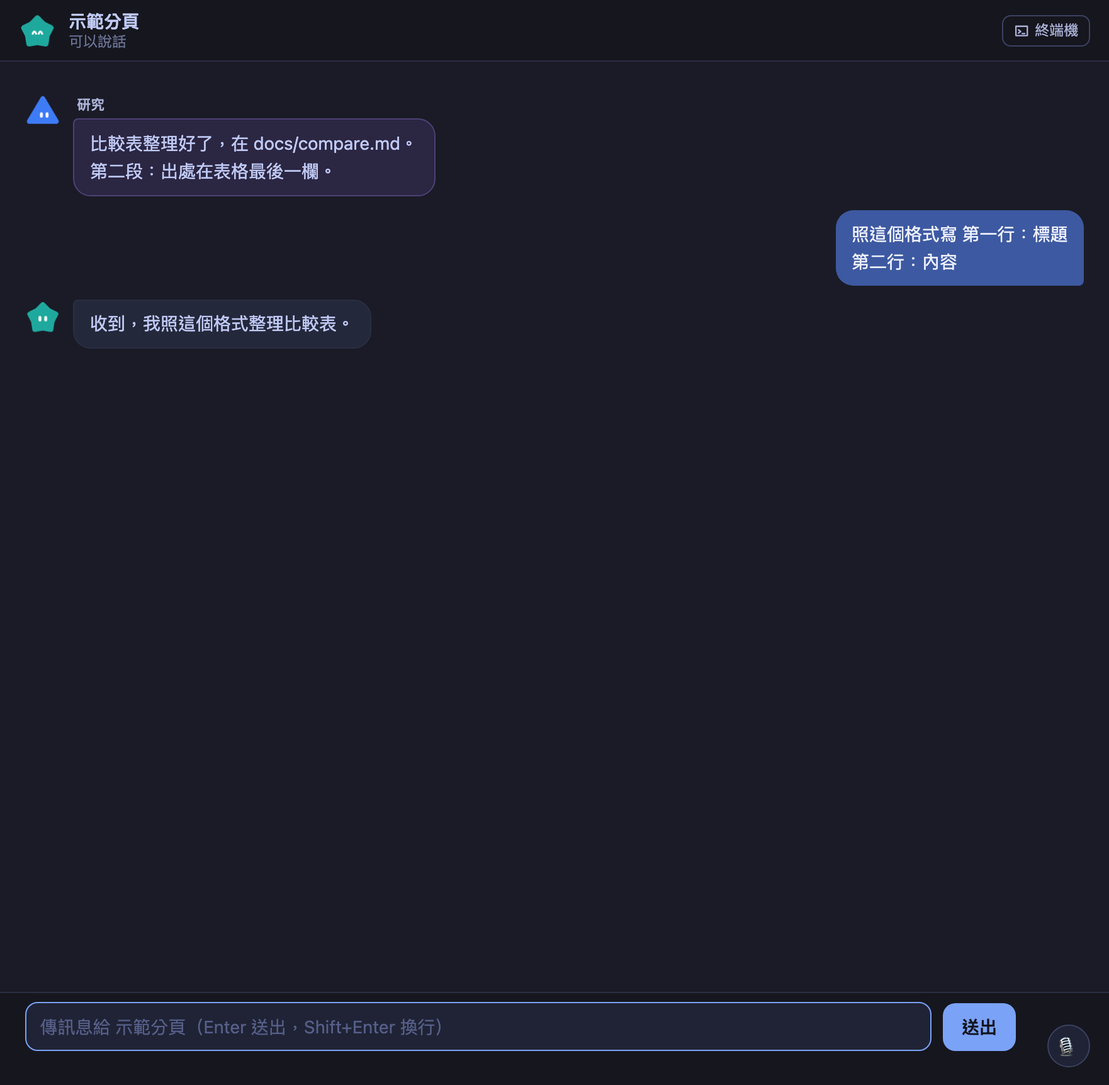
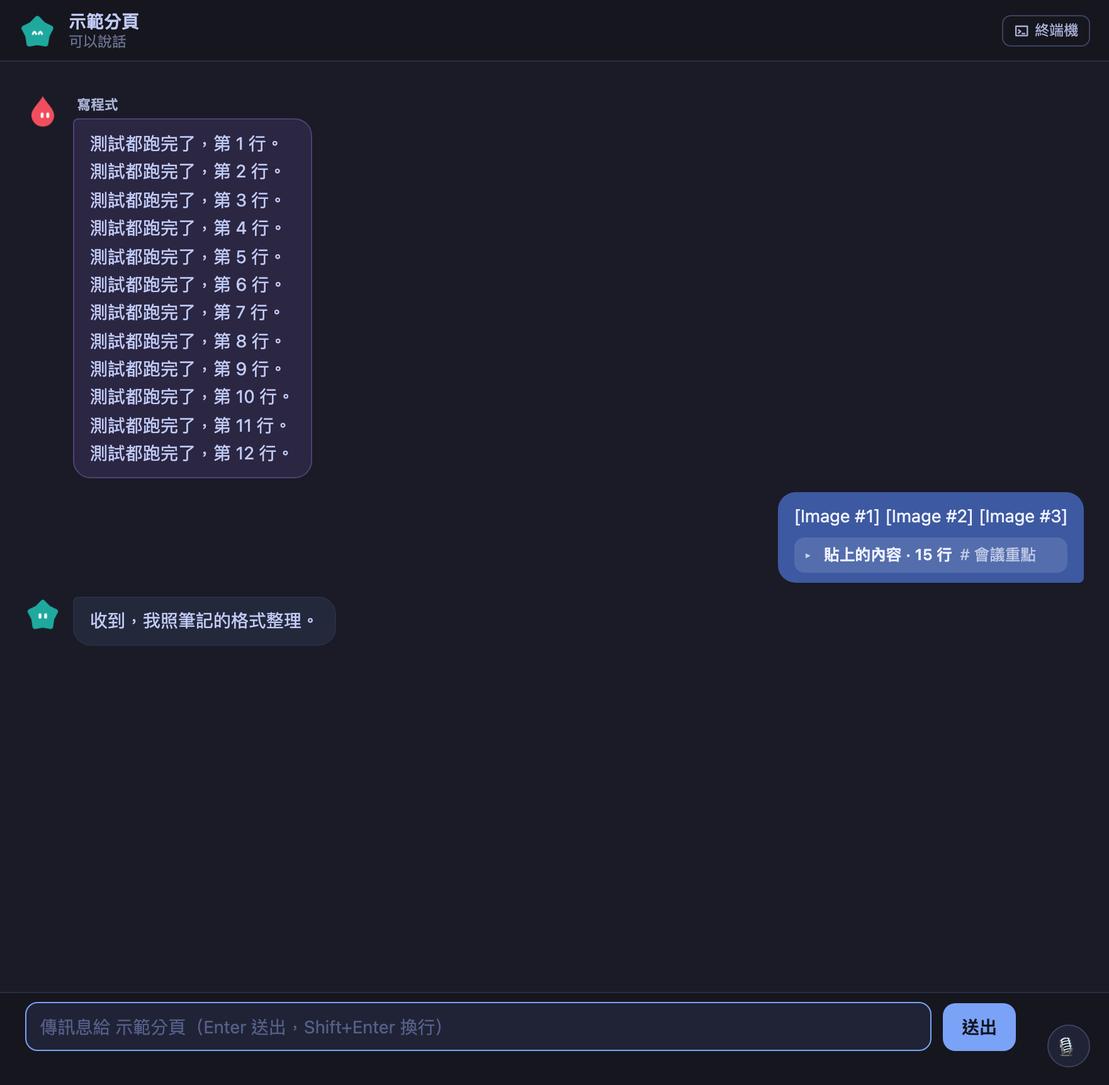
What the person pasted is a folded block in their bubble, never the paste's tags
Claude Code keeps every paste in its record wrapped: <pasted_content id="…">…
</pasted_content id="…">. ShellBot types a long message into a tab as a paste
(another agent's, one from Telegram, the chat view's own send), so a wrapper that is
the whole message is only how it went in. A paste of the person's own sits among
their words: measured on a tab in daily use, three attached pictures, a blank line,
then a paste of about 15 lines. The view showed it with its tags; the previous
commit dropped the tags but left the pasted lines spread through the bubble.

- web/chat.js pasteParts: a wrapper that is the whole message gives its words, as
  the message. Wrappers among the person's words make parts of the bubble, and each
  paste is one folded block: "貼上的內容 · 15 行" and how it starts, the text as it
  was pasted one click away. A header inside something the person pasted is theirs,
  not an agent's. `text` keeps everything without tags (a send waiting in the view
  is matched on it).
- agent_link.unwrap_paste, the same rule for who sent it: only a wrapper that is the
  whole message is read inside. The previous commit dropped every tag, so a message
  that began with a pasted agent's message and went on with the person's own words
  read as the agent's.
- Only the display changes; the CLI keeps the text as it got it.
- docs/chat-shell.md, docs/mobile-link.md: the rule, so a phone draws the same.
[…]

diff --git a/web/chat.js b/web/chat.js
@@ -275,10 +275,31 @@
   // Context Codex writes as a message of its own, not something anyone said.
   const CODEX_CONTEXT = /^\s*(?:<environment_context>|<user_instructions>|<permissions instructions>|# AGENTS\.md instructions)/;
   const RED_MARK = /^[\s>❯›⏺•*-]*\[\[\s*SF\s*:\s*RED\s*(?::[^\]]*)?\]\]\s*$/i;     // bridge_home._RED_LINE
-  // Claude Code keeps a pasted block as <pasted_content id="…">…</pasted_content id="…">, and a
-  // message of several lines goes into a tab as a paste: the tags go, what was pasted stays
-  // (agent_link._PASTE_TAG is the same rule).
+  // Claude Code keeps a pasted block as <pasted_content id="…">…</pasted_content id="…">. ShellBot
+  // types a long message into a tab as a paste (another agent's, one from Telegram, the chat view's
+  // own send), so a wrapper that is the whole message is only how it went in: its words are the
+  // message. A wrapper among the person's own words is something they pasted: a folded block of its
+  // own. The tags are never shown, and the CLI keeps the text as it got it. (agent_link.unwrap_paste
+  // is the same rule for who sent a message.)
   const PASTE_TAG = /<pasted_content(?:\s[^>]*)?>\n?|\n?<\/pasted_content(?:\s[^>]*)?>/g;
+  const PASTE_OPEN = /<pasted_content(?:\s[^>]*)?>/g;
+  const PASTE_BLOCK = /<pasted_content(?:\s[^>]*)?>\n?([\s\S]*?)\n?<\/pasted_content(?:\s[^>]*)?>/g;
+  const PASTE_WHOLE = /^\s*<pasted_content(?:\s[^>]*)?>\n?([\s\S]*?)\n?<\/pasted_content(?:\s[^>]*)?>\s*$/;
+  // → { inner: the words without tags, parts: [{text} | {paste}] when something was pasted among them }
+  function pasteParts(t) {
+    const opens = (t.match(PASTE_OPEN) || []).length;
+    const whole = opens === 1 && t.match(PASTE_WHOLE);
+    if (!opens || whole) return { inner: whole ? whole[1] : t, parts: null };
+    const parts = [];
+    let at = 0;
+    for (const m of t.matchAll(PASTE_BLOCK)) {
+      if (t.slice(at, m.index).trim()) parts.push({ text: t.slice(at, m.index).trim() });
+      parts.push({ paste: m[1] });
+      at = m.index + m[0].length;
+    }
+    if (t.slice(at).trim()) parts.push({ text: t.slice(at).trim() });
+    return { inner: t.replace(PASTE_TAG, ''), parts: parts.some(x => x.paste !== undefined) ? parts : null };
+  }
 
   // The [[A2A…]] header an agent message starts with (agent_link.format_delivery /
   // format_handoff). It can hold a [[SF:TO:…]] of its own, so it ends at the ]] that
@@ -297,9 +318,10 @@
 
   // A user turn: the words, minus what ShellBot itself put around them.
   function userView(text) {
-    let t = String(text || '').replace(PASTE_TAG, '');
+    const pasted = pasteParts(String(text || ''));
+    let t = pasted.inner;
     const tags = [];
-    const a2a = a2aHeader(t);
+    const a2a = pasted.parts ? null : a2aHeader(t);     // a header in something the person pasted is theirs
     if (a2a) {
       const who = a2a.inner.match(/「([^」]+)」|"([^"]+)"/) || [];
       tags.push({ kind: 'a2a', who: who[1] || who[2] || '' });
@@ -313,7 +335,7 @@
       t = t.split(/\n{2,}/).filter(p => !TG_TOKEN.test(p)).join('\n\n');
       tags.push({ kind: 'telegram' });
     }
-    return { text: t.trim(), tags };
+    return pasted.parts ? { text: t.trim(), tags, parts: pasted.parts } : { text: t.trim(), tags };
   }
   // An agent's words, minus ShellBot's protocol markers. `foldRed`: the [[SF:RED]]
   // question at the end is on screen as buttons, so its tail is left out.
@@ -354,7 +376,8 @@
         // (`from`, agent_link.sender_of, what a phone reads); the header is the same rule.
         const peer = (t.from && t.from.kind === 'a2a') ? t.from.name : (u.tags.find(x => x.kind === 'a2a') || {}).who;
         if (peer !== undefined) { out.push({ type: 'peer', who: peer || '', text: u.text, ts: t.ts || 0 }); return; }
-        out.push({ type: 'user', text: u.text, tags: u.tags, ts: t.ts || 0 });
+        out.push(u.parts ? { type: 'user', text: u.text, tags: u.tags, parts: u.parts, ts: t.ts || 0 }
+                         : { type: 'user', text: u.text, tags: u.tags, ts: t.ts || 0 });
       } else if (kind === 'assistant_text') {
         const raw = String(t.text || '').trim();
         if (!raw || CODEX_CONTEXT.test(raw)) return;           // reasoning, or Codex's own context
@@ -932,14 +955,28 @@
         v.open.has(key) ? T('Show less', '收合') : T(`Show all (${text.length} characters)`, `顯示全部（${text.length} 字）`))}</button>` : '') +
       '</div>';
   }
+  // Something the person pasted among their own words: one folded block in their bubble, how many
+  // lines and how it starts; the text itself, as it was pasted, one click away.
+  function pasteHtml(sid, key, text) {
+    const open = view(sid).open.has(key);
+    const n = text.split('\n').length;
+    const peek = (text.split('\n').find(l => l.trim()) || '').trim();
+    return `<div class="cm-paste${open ? ' is-open' : ''}"><button class="cm-paste-sum" data-act="open" data-key="${escHtml(key)}">` +
+      `<span class="cm-caret">${open ? '▾' : '▸'}</span><span>${escHtml(T(`Pasted · ${n} ${n === 1 ? 'line' : 'lines'}`, `貼上的內容 · ${n} 行`))}</span>` +
+      (open ? '' : `<span class="cm-paste-peek">${escHtml(peek)}</span>`) + '</button>' +
+      (open ? `<div class="cm-paste-text">${escHtml(text)}</div>` : '') + '</div>';
+  }
   function itemHtml(sid, it, idx, items) {
     const v = view(sid);
     const key = itemKey(it, idx);
     if (it.type === 'user') {
       const tag = it.tags.map(t => t.kind === 'telegram' ? T('from Telegram', '來自 Telegram')
         : T(`from ${t.who || 'another agent'}`, `來自 ${t.who || '另一個分頁'}`)).join(' · ');
-      return `<div class="cm-row cm-user">${longText(sid, key, it.text, 'cm-bubble', true)}` +
-        (tag ? `<div class="cm-meta">${escHtml(tag)}</div>` : '') + '</div>';
+      const bubble = it.parts
+        ? `<div class="cm-bubble">${it.parts.map((p, n) => p.paste !== undefined ? pasteHtml(sid, `${key}:paste${n}`, p.paste)
+                                                                                : md(p.text, isZh(lang()))).join('')}</div>`
+        : longText(sid, key, it.text, 'cm-bubble', true);
+      return `<div class="cm-row cm-user">${bubble}` + (tag ? `<div class="cm-meta">${escHtml(tag)}</div>` : '') + '</div>';
     }
     if (it.type === 'peer') {
       // Another agent: on the left with its own face and name, its words in a bubble of

diff --git a/tests_chat_shell.js b/tests_chat_shell.js
@@ -216,11 +216,15 @@ console.log('turns');
   const pasted = R.buildTimeline([
     { kind: 'user_msg', text: '<pasted_content id="9f2a">\n' + sent + '\n第二段\n</pasted_content id="9f2a">', ts: 5 },
     { kind: 'user_msg', text: '看這段 <pasted_content id="77b1">\n第一行\n第二行\n</pasted_content id="77b1">', ts: 6 },
+    { kind: 'user_msg', text: '<pasted_content id="a7d3">\n我自己打的長訊息\n第二行\n</pasted_content id="a7d3">', ts: 7 },
   ]);
   check("an agent's message that went in as a paste is the sender's too: no wrapper, no header",
     pasted[0].type === 'peer' && pasted[0].who === '研究' && pasted[0].text === '資料整理好了\n第二段', pasted[0]);
-  check("…a paste of your own shows what you pasted, not its wrapper",
-    pasted[1].type === 'user' && pasted[1].text === '看這段 第一行\n第二行', pasted[1]);
+  check("…a paste among your own words: yours, and what you pasted is a block of its own, without its wrapper",
+    pasted[1].type === 'user' && pasted[1].text === '看這段 第一行\n第二行'
+      && same(pasted[1].parts, [{ text: '看這段' }, { paste: '第一行\n第二行' }]), pasted[1]);
+  check("…your own message wrapped whole (how a long one goes in): just your words, no block",
+    pasted[2].type === 'user' && pasted[2].text === '我自己打的長訊息\n第二行' && !pasted[2].parts, pasted[2]);
   const cur = R.userView('<timestamp>Tuesday, Nov 10, 2026, 9:55 PM (UTC+8)</timestamp><user_query>你好</user_query>');
   check("Cursor Agent's stamp and wrapper are not shown", cur.text === '你好' && !cur.tags.length, cur);
   const pic = R.buildTimeline([{ kind: 'user_msg', text: '[Image #1]幾根長條？' }, { kind: 'user_msg', text: '[Image: source: /tmp/w/bars.png]' }]);

diff --git a/web/chat.css b/web/chat.css
@@ -117,6 +117,16 @@
 .cm-bubble p { margin: .45em 0; }
 .cm-bubble code { background: rgba(122, 162, 247, .13); border-radius: 4px; padding: .05em .35em; font-size: .9em; }
 .cm-user .cm-bubble code { background: rgba(255, 255, 255, .16); }
+/* something the person pasted among their words: a folded block in their bubble (chat.js pasteHtml) */
+.cm-paste { margin: .4em 0; border-radius: 8px; background: rgba(255, 255, 255, .12); min-width: 0; }
+.cm-paste:first-child { margin-top: 0; }
+.cm-paste:last-child { margin-bottom: 0; }
+.cm-paste-sum { display: flex; align-items: center; gap: .5em; width: 100%; min-width: 0; border: 0; background: none;
+                cursor: pointer; color: inherit; font: inherit; font-size: .88em; padding: .35em .65em; text-align: left; }
+.cm-paste-sum .cm-caret { color: inherit; opacity: .75; }
+.cm-paste-sum > span:nth-child(2) { flex: none; font-weight: 600; }
+.cm-paste-peek { opacity: .7; overflow: hidden; text-overflow: ellipsis; white-space: nowrap; min-width: 0; }
+.cm-paste-text { padding: .15em .75em .65em; white-space: pre-wrap; font-size: .88em; max-height: 22em; overflow-y: auto; }
 .cm-bubble a.cm-link, .cm-compact-text a.cm-link { color: #9ab8ff; text-decoration: underline; text-underline-offset: 2px; cursor: pointer; }
 .cm-user .cm-bubble a.cm-link { color: #fff; }
 .cm-h { font-weight: 700; margin: .7em 0 .3em; color: var(--cm-text); }

diff --git a/tests_chat_a2a_ui.py b/tests_chat_a2a_ui.py
@@ -7,12 +7,14 @@ was drawn as the person's own (a blue bubble on the right with a small "from" un
     bubble shows any of the header ("]]", "SF:TO", "不是使用者本人"); each A2A is on the left
     with its sender's face (a bot's own, else one made from its name) and name above it; the
     person's own words stay on the right; the message itself is there whole
-  - an A2A message of several lines goes in as a paste, and Claude Code keeps every paste
-    wrapped (<pasted_content id=…>…</pasted_content id=…>): drawn the same, no wrapper shown;
-    a paste of the person's own shows what was pasted, not the wrapper
-Only what is drawn changes: the CLI gets the header as it was (agent_link is not touched).
-Demo data only. Screenshots: qa-shots/chat-a2a-{row,mixed,long,pasted}.png. SF_A2A_BEFORE=<a chat.js>
-draws the same with that file instead and saves …-before.png, without checks.
+  - a long A2A message goes in as a paste, and Claude Code keeps every paste wrapped
+    (<pasted_content id=…>…</pasted_content id=…>): drawn the same, no wrapper shown. What the
+    person pasted among their own words is one folded block in their bubble ("貼上的內容 · 15 行"
+    and how it starts), the pasted text as it was one click away. The turns are the shapes
+    measured on a real tab (_paste_shapes.py), with demo words.
+Only what is drawn changes: the CLI gets the text as it was.
+Demo data only. Screenshots: qa-shots/chat-a2a-{row,mixed,long,pasted,pasted-open}.png.
+SF_A2A_BEFORE=<a chat.js> draws the same with that file instead and saves …-before.png, without checks.
 Needs playwright; SKIP without it. Run: .venv/bin/python tests_chat_a2a_ui.py
 """
 import json
@@ -24,6 +26,7 @@ HERE = pathlib.Path(__file__).resolve().parent
 SHOTS = HERE / "qa-shots"
 sys.path.insert(0, str(HERE))
 import agent_link  # noqa: E402
+import _paste_shapes as ps  # noqa: E402
 
 passed = failed = 0
 BEFORE = os.environ.get("SF_A2A_BEFORE", "")
@@ -52,10 +55,9 @@ def a2a(who, text):
     return {"kind": "user_msg", "text": agent_link.format_delivery(who, text, lang="zh")}
 
 
-def pasted(who, text, pid):
-    """An A2A message of several lines: it goes in as a paste, which Claude Code keeps wrapped."""
-    return {"kind": "user_msg", "text": f'<pasted_content id="{pid}">\n' + agent_link.format_delivery(who, text, lang="zh")
-            + f'\n</pasted_content id="{pid}">'}
+def shaped(n):
+    """The n-th of the measured shapes (_paste_shapes.SHAPES), as a turn."""
+    return {"kind": "user_msg", "text": ps.SHAPES[n][1]}
 
 
 def you(text):
@@ -84,11 +86,11 @@ CASES = {
               bot("研究說做好了，在 docs/compare.md。"),
               you("好，謝謝")],
     "long": [a2a("研究", LONG), bot("收到，我整理成三點回給你。")],
-    "pasted": [pasted("研究", "比較表整理好了，在 docs/compare.md。\n第二段：出處在表格最後一欄。", "9f2a"),
-               you('照這個格式寫 <pasted_content id="77b1">\n第一行：標題\n第二行：內容\n</pasted_content id="77b1">'),
-               bot("收到，我照這個格式整理比較表。")],
+    "pasted": [shaped(1),                                   # an A2A message, wrapped whole, 12 lines
+               shaped(3),                                   # the person's own: three pictures, then a paste
+               bot("收到，我照筆記的格式整理。")],
 }
-SENDERS = {"row": ["研究", "寫程式", "排程"], "mixed": ["研究"], "long": ["研究"], "pasted": ["研究"]}
+SENDERS = {"row": ["研究", "寫程式", "排程"], "mixed": ["研究"], "long": ["研究"], "pasted": ["寫程式"]}
 BOTS = {"enabled": True, "primary": "", "memory_root": "~/.config/shellframe/bots", "sessions": {}, "kinds": {},
         "roster": {"研究": {"label": "研究", "cmd": "claude", "bot": {"avatar": {"shape": "hex", "color": "blue"}, "memory": True}},
                    "寫程式": {"label": "寫程式", "cmd": "codex", "bot": {"avatar": {"shape": "pill", "color": "red"}, "memory": True}}}}
@@ -148,13 +150,26 @@ with sync_playwright() as pw:
         if not BEFORE:
             check("each A2A is on the left, its sender's name above it", names == SENDERS[name], names)
             check("…with its sender's face", faces and all(faces), faces)
-            check("the person's own words stay on the right", mine == [agent_link.unwrap_paste(t) for t in sent
-                                                                       if t not in agents], mine)
+            plain = [agent_link.unwrap_paste(t) for t in sent if t not in agents and "<pasted_content" not in agent_link.unwrap_paste(t)]
+            check("the person's own words stay on the right", [b for b in mine if "貼上的內容" not in b] == plain, mine)
         bodies = [agent_link.header_of(t)[1] for t in agents]
         check("the message itself is there, from its first word",
               all(any(b.startswith(body[:12]) for b in bubbles) for body in bodies), (bodies, bubbles))
+        if name == "pasted" and not BEFORE:
+            sums = page.evaluate("[...document.querySelectorAll('#chat-list .cm-user .cm-paste-sum')].map(b => b.innerText)")
+            check("what the person pasted is one folded block: how many lines, how it starts",
+                  len(sums) == 1 and "貼上的內容 · 15 行" in sums[0] and "# 會議重點" in sums[0], sums)
+            check("…in their bubble, after their own words", mine and mine[0].startswith("[Image #1] [Image #2] [Image #3]")
+                  and not page.evaluate("!!document.querySelector('#chat-list .cm-paste-text')"), mine)
+            page.locator("#chat-layer").screenshot(path=str(SHOTS / "chat-a2a-pasted.png"))
+            page.click("#chat-list .cm-paste-sum")
+            page.wait_for_timeout(250)
+            shown = page.evaluate("(document.querySelector('#chat-list .cm-paste-text') || {}).innerText")
+            check("…one click shows it, as it was pasted", shown == ps.NOTES, shown)
+            page.locator("#chat-layer").screenshot(path=str(SHOTS / "chat-a2a-pasted-open.png"))
         check("no page errors", not errors, errors)
-        page.locator("#chat-layer").screenshot(path=str(SHOTS / f"chat-a2a-{name}{'-before' if BEFORE else ''}.png"))
+        if name != "pasted" or BEFORE:
+            page.locator("#chat-layer").screenshot(path=str(SHOTS / f"chat-a2a-{name}{'-before' if BEFORE else ''}.png"))
         page.close()
     browser.close()
 

diff --git a/_paste_shapes.py b/_paste_shapes.py
@@ -1,0 +1,54 @@
+"""Messages that went into a Claude Code tab as a paste, in the shapes measured on a tab in daily
+use (47 user turns). The words are demo words; only the shapes come from that tab.
+
+Claude Code keeps every paste in its record wrapped: <pasted_content id="…">…</pasted_content id="…">,
+the id four hex digits and the same on both tags, a newline after the opening tag and before the
+closing one. ShellBot types a long message into a tab as a paste. Measured:
+  - 14 messages from another agent (A2A), each wrapped whole with nothing outside: the header, with
+    its [[SF:TO:…]], on the first line inside, then 2 to 30-odd lines (1 short, 11 middling, 2 long);
+  - 1 message of the person's own: three attached pictures, a blank line, then a paste of about 15
+    lines that starts with a heading, and nothing after it.
+Two more that the same rule covers: the person's own long message wrapped whole (typed in the chat
+view, or pasted on its own), and a long message from Telegram, wrapped whole.
+
+Used by tests_chat_shell.py (the server's `from`, and the view's timeline) and tests_chat_a2a_ui.py.
+"""
+import agent_link
+
+TG_ASK = "最終要回 Telegram 的文字請放在 [[TG_REPLY_ab12cd34]] 和 [[/TG_REPLY_ab12cd34]] 之間。"
+
+
+def wrap(pid: str, inner: str) -> str:
+    return f'<pasted_content id="{pid}">\n{inner}\n</pasted_content id="{pid}">'
+
+
+def lines(n: int, word: str) -> str:
+    return "\n".join(f"{word}，第 {i} 行。" for i in range(1, n + 1))
+
+
+def a2a(pid: str, who: str, words: str) -> str:
+    return wrap(pid, agent_link.format_delivery(who, words, lang="zh"))
+
+
+SHORT, MIDDLING, LONG = lines(3, "比較表整理好了"), lines(12, "測試都跑完了"), lines(31, "週報草稿")
+NOTES = "# 會議重點\n" + lines(14, "貼上的筆記")
+OWN_WHOLE = lines(6, "我自己打的一段長訊息")
+FROM_PHONE = lines(5, "從手機傳的")
+
+# (name, the text as the CLI got it, the `from` the server gives, what the view's timeline item holds)
+SHAPES = [
+    ("an A2A message, wrapped whole, 3 lines", a2a("9dd0", "研究", SHORT),
+     {"kind": "a2a", "name": "研究", "handoff": False}, {"type": "peer", "who": "研究", "text": SHORT}),
+    ("an A2A message, wrapped whole, 12 lines", a2a("3b7e", "寫程式", MIDDLING),
+     {"kind": "a2a", "name": "寫程式", "handoff": False}, {"type": "peer", "who": "寫程式", "text": MIDDLING}),
+    ("an A2A message, wrapped whole, 31 lines", a2a("e41c", "排程", LONG),
+     {"kind": "a2a", "name": "排程", "handoff": False}, {"type": "peer", "who": "排程", "text": LONG}),
+    ("the person's own: three pictures, then something pasted",
+     "[Image #1] [Image #2] [Image #3]\n\n" + wrap("5c1e", NOTES),
+     None, {"type": "user", "text": "[Image #1] [Image #2] [Image #3]\n\n" + NOTES,
+            "parts": [{"text": "[Image #1] [Image #2] [Image #3]"}, {"paste": NOTES}]}),
+    ("the person's own long message, wrapped whole", wrap("a7d3", OWN_WHOLE),
+     None, {"type": "user", "text": OWN_WHOLE}),
+    ("a long message from Telegram, wrapped whole", wrap("b210", TG_ASK + "\n\n" + FROM_PHONE),
+     {"kind": "telegram"}, {"type": "user", "text": FROM_PHONE, "tags": [{"kind": "telegram"}]}),
+]

diff --git a/tests_chat_shell.py b/tests_chat_shell.py
@@ -203,6 +203,20 @@ check("…in English too", agent_link.sender_of(agent_link.format_delivery("rese
 check("…and the chat view gets the same turns", view("s6")["turns"] == turns6)
 check("a header that never closes names no one", agent_link.sender_of("[[A2A：來自「研究」的訊息 [[SF:TO:<角色>|回覆]]") is None)
 
+print("pasted messages in the shapes measured on a real tab (_paste_shapes.py): who sent each")
+import _paste_shapes as ps  # noqa: E402
+SHAPED = TMP / "shapes.jsonl"
+SHAPED.write_text("\n".join(rec("user", text, f"2026-11-12T10:{i:02d}:00Z") for i, (_, text, _, _) in enumerate(ps.SHAPES))
+                  + "\n", encoding="utf-8")
+PATHS["s10"] = SHAPED
+api.sessions["s10"] = Tab("s10", "claude")
+turns10 = [t for t in api._execute_sfctl("conversation", {"sid": "s10", "limit": 120})["details"]["turns"]
+           if t["kind"] == "user_msg"]
+check(f"all {len(ps.SHAPES)} come back as user turns", len(turns10) == len(ps.SHAPES), len(turns10))
+for (name, text, frm, _), t in zip(ps.SHAPES, turns10):
+    check(f"{name}: `from` is {frm}, the text as the CLI got it", t.get("from") == frm and t["text"] == text,
+          (t.get("from"), t["text"][:60]))
+
 print("chat_view: the other CLIs (M2)")
 import agent_pi  # noqa: E402
 PI = TMP / "pi-session.jsonl"
@@ -395,6 +409,22 @@ else:
           (out.stderr, got[0]))
     check("…the person's words around a pasted header: theirs, with what was pasted but not its wrapper",
           got[1].get("tags") == [] and got[1].get("text") == "這則是誰寄的？" + SENT, (out.stderr, got[1]))
+    check("…and what they pasted is a block of its own",
+          got[1].get("parts") == [{"text": "這則是誰寄的？"}, {"paste": SENT}], (out.stderr, got[1].get("parts")))
+
+    print("the same shapes in the chat view (web/chat.js buildTimeline, on the server's turns)")
+    out = subprocess.run([node, "-e", "const R = require(process.argv[1]); "
+                          "console.log(JSON.stringify(R.buildTimeline(JSON.parse(require('fs').readFileSync(0, 'utf8')))))",
+                          str(HERE / "web" / "chat.js")], input=json.dumps(turns10, ensure_ascii=False),
+                         capture_output=True, text=True, timeout=20)
+    items = json.loads(out.stdout or "[]")
+    check(f"one item each ({len(items)})", len(items) == len(ps.SHAPES), (out.stderr, items))
+    for (name, _, _, want), it in zip(ps.SHAPES, items):
+        got = {k: it.get(k) for k in want}
+        check(f"{name}: drawn as {want['type']}" + (f" from {want['who']}" if want.get("who") else "")
+              + (", what was pasted in a block" if want.get("parts") else ""), got == want, (got, want))
+    check("no item holds a wrapper's tag or an A2A header", not any(
+        "pasted_content" in json.dumps(it, ensure_ascii=False) or "[[A2A" in json.dumps(it, ensure_ascii=False) for it in items))
 
 print(f"\n{passed} passed, {failed} failed")
 if failed:

diff --git a/agent_link.py b/agent_link.py
@@ -169,14 +169,19 @@ _HEADER_OPEN = re.compile(r"^\s*\[\[A2A[:：]")
 _HEADER_WHO = re.compile(r"「([^」]+)」|\"([^\"]+)\"")
 _TG_MARK = re.compile(r"(?:\[\[|<<)/?TG_REPLY_[0-9a-fA-F]+(?:\]\]|>>)")
 # Claude Code keeps a pasted block in its record as <pasted_content id="…">…</pasted_content id="…">,
-# and a message of several lines goes into a tab as a paste, so a header can sit inside one
-# (web/chat.js PASTE_TAG is the same rule).
-_PASTE_TAG = re.compile(r"<pasted_content(?:\s[^>]*)?>\n?|\n?</pasted_content(?:\s[^>]*)?>")
+# and ShellBot types a long message into a tab as a paste, so a header can sit inside one
+# (web/chat.js pasteParts is the same rule).
+_PASTE_OPEN = re.compile(r"<pasted_content(?:\s[^>]*)?>")
+_PASTE_WHOLE = re.compile(r"\s*<pasted_content(?:\s[^>]*)?>\n?(.*?)\n?</pasted_content(?:\s[^>]*)?>\s*", re.S)
 
 
 def unwrap_paste(text: str) -> str:
-    """The text without Claude Code's paste wrappers; what was pasted stays."""
-    return _PASTE_TAG.sub("", str(text or ""))
+    """The words of a message that went in as one paste: when one wrapper is the whole message,
+    what is inside it. A wrapper among the person's own words is something they pasted, so such a
+    text comes back as it is, and is the person's."""
+    text = str(text or "")
+    whole = len(_PASTE_OPEN.findall(text)) == 1 and _PASTE_WHOLE.fullmatch(text)
+    return whole.group(1) if whole else text
 
 
 def header_of(text: str):
@@ -184,7 +189,7 @@ def header_of(text: str):
     (inside, the message after it), or None. The header holds an [[SF:TO:…]] example of its
     own, so it ends at the ]] that closes its own [[, not at the first one (web/chat.js
     a2aHeader is the same rule). A header that never closes is no header. A message that
-    went in as a paste is read without its wrapper: one of several lines always does."""
+    went in as one paste is read inside its wrapper (unwrap_paste): a long one always does."""
     text = unwrap_paste(text)
     m = _HEADER_OPEN.match(text)
     if not m:

diff --git a/docs/mobile-link.md b/docs/mobile-link.md
@@ -158,7 +158,7 @@ xcodebuild -scheme ShellFrameMobile -destination 'platform=iOS Simulator,name=iP
 - 使用者從 Telegram 傳的：`{"kind": "telegram"}`；
 - 使用者在電腦前自己打的：沒有這個欄位。
 
-`text` 照舊是 CLI 收到的原文，開頭那段給 AI 看的說明還在。超過一行的訊息是用貼上的方式送進分頁的，Claude Code 會把每一段貼上的內容包成 `<pasted_content id="…">…</pasted_content id="…">` 存起來，所以這種訊息的 `text` 開頭是這個標籤；`from` 已經看過裡面，顯示時把標籤拿掉、內容留著（`agent_link.unwrap_paste`）。要顯示寄件者時，用 `from.name` 找 bot 的臉（`/link/bots` 的名字、標籤或 `former_names`），找不到就用名字產生一張。桌面的對話畫面就是這樣畫的，手機照做，兩邊同一個來源就會是同一個名字。
+`text` 照舊是 CLI 收到的原文，開頭那段給 AI 看的說明還在。ShellBot 把長訊息用貼上的方式送進分頁，Claude Code 會把每一段貼上的內容包成 `<pasted_content id="…">…</pasted_content id="…">` 存起來，`text` 裡就是這個樣子。整則就是一個包裝時，那只是送進去的方式，裡面的字就是訊息，`from` 已經看過裡面（`agent_link.unwrap_paste`）；包裝夾在使用者自己的字中間時，那是使用者貼上的東西，桌面畫成一塊收起來的「貼上的內容 · N 行」，點開才看到原文。手機照同一條規則顯示，標籤一律不顯示。要顯示寄件者時，用 `from.name` 找 bot 的臉（`/link/bots` 的名字、標籤或 `former_names`），找不到就用名字產生一張。桌面的對話畫面就是這樣畫的，手機照做，兩邊同一個來源就會是同一個名字。
 
 ## Bots（v0.41.0）
 

diff --git a/docs/chat-shell.md b/docs/chat-shell.md
@@ -90,10 +90,14 @@ running underneath with its size unchanged, and everything that types into the t
   on the left, its face (`SFBots.faceForName`: a bot's own, by its name, label or a name it
   had; else an open tab's; else one made from the name) and its name above a bubble of its
   own colour, the header left out (it can hold an `[[SF:TO:…]]` of its own, so it ends at
-  the `]]` closing its own `[[`); the same sender again shows them once. A message of several
-  lines goes into a tab as a paste, and Claude Code keeps every paste wrapped
-  (`<pasted_content id="…">…</pasted_content id="…">`): the wrapper is not shown, and the header
-  is read inside it (`agent_link.unwrap_paste` is the same rule). Codex's empty reasoning
+  the `]]` closing its own `[[`); the same sender again shows them once. ShellBot types a long
+  message into a tab as a paste, and Claude Code keeps every paste wrapped
+  (`<pasted_content id="…">…</pasted_content id="…">`). A wrapper that is the whole message is only
+  how it went in: its words are the message, and an agent's header is read inside it. Something the
+  person pasted among their own words is one folded block in their bubble ("貼上的內容 · 15 行" and
+  how it starts); a click shows it as it was pasted. The tags are never shown, and the CLI keeps the
+  text as it got it (`chat.js pasteParts`; `agent_link.unwrap_paste` is the same rule for who sent
+  it). Codex's empty reasoning
   records, its own context messages and its doubled answers are left out; `[[SF:…]]`
   markers are not shown, and a `[[SF:RED]]` tail folds away while it is up as buttons.
 - **Markdown**: agent text is escaped first; then a fixed set of tags (paragraphs, lists,
